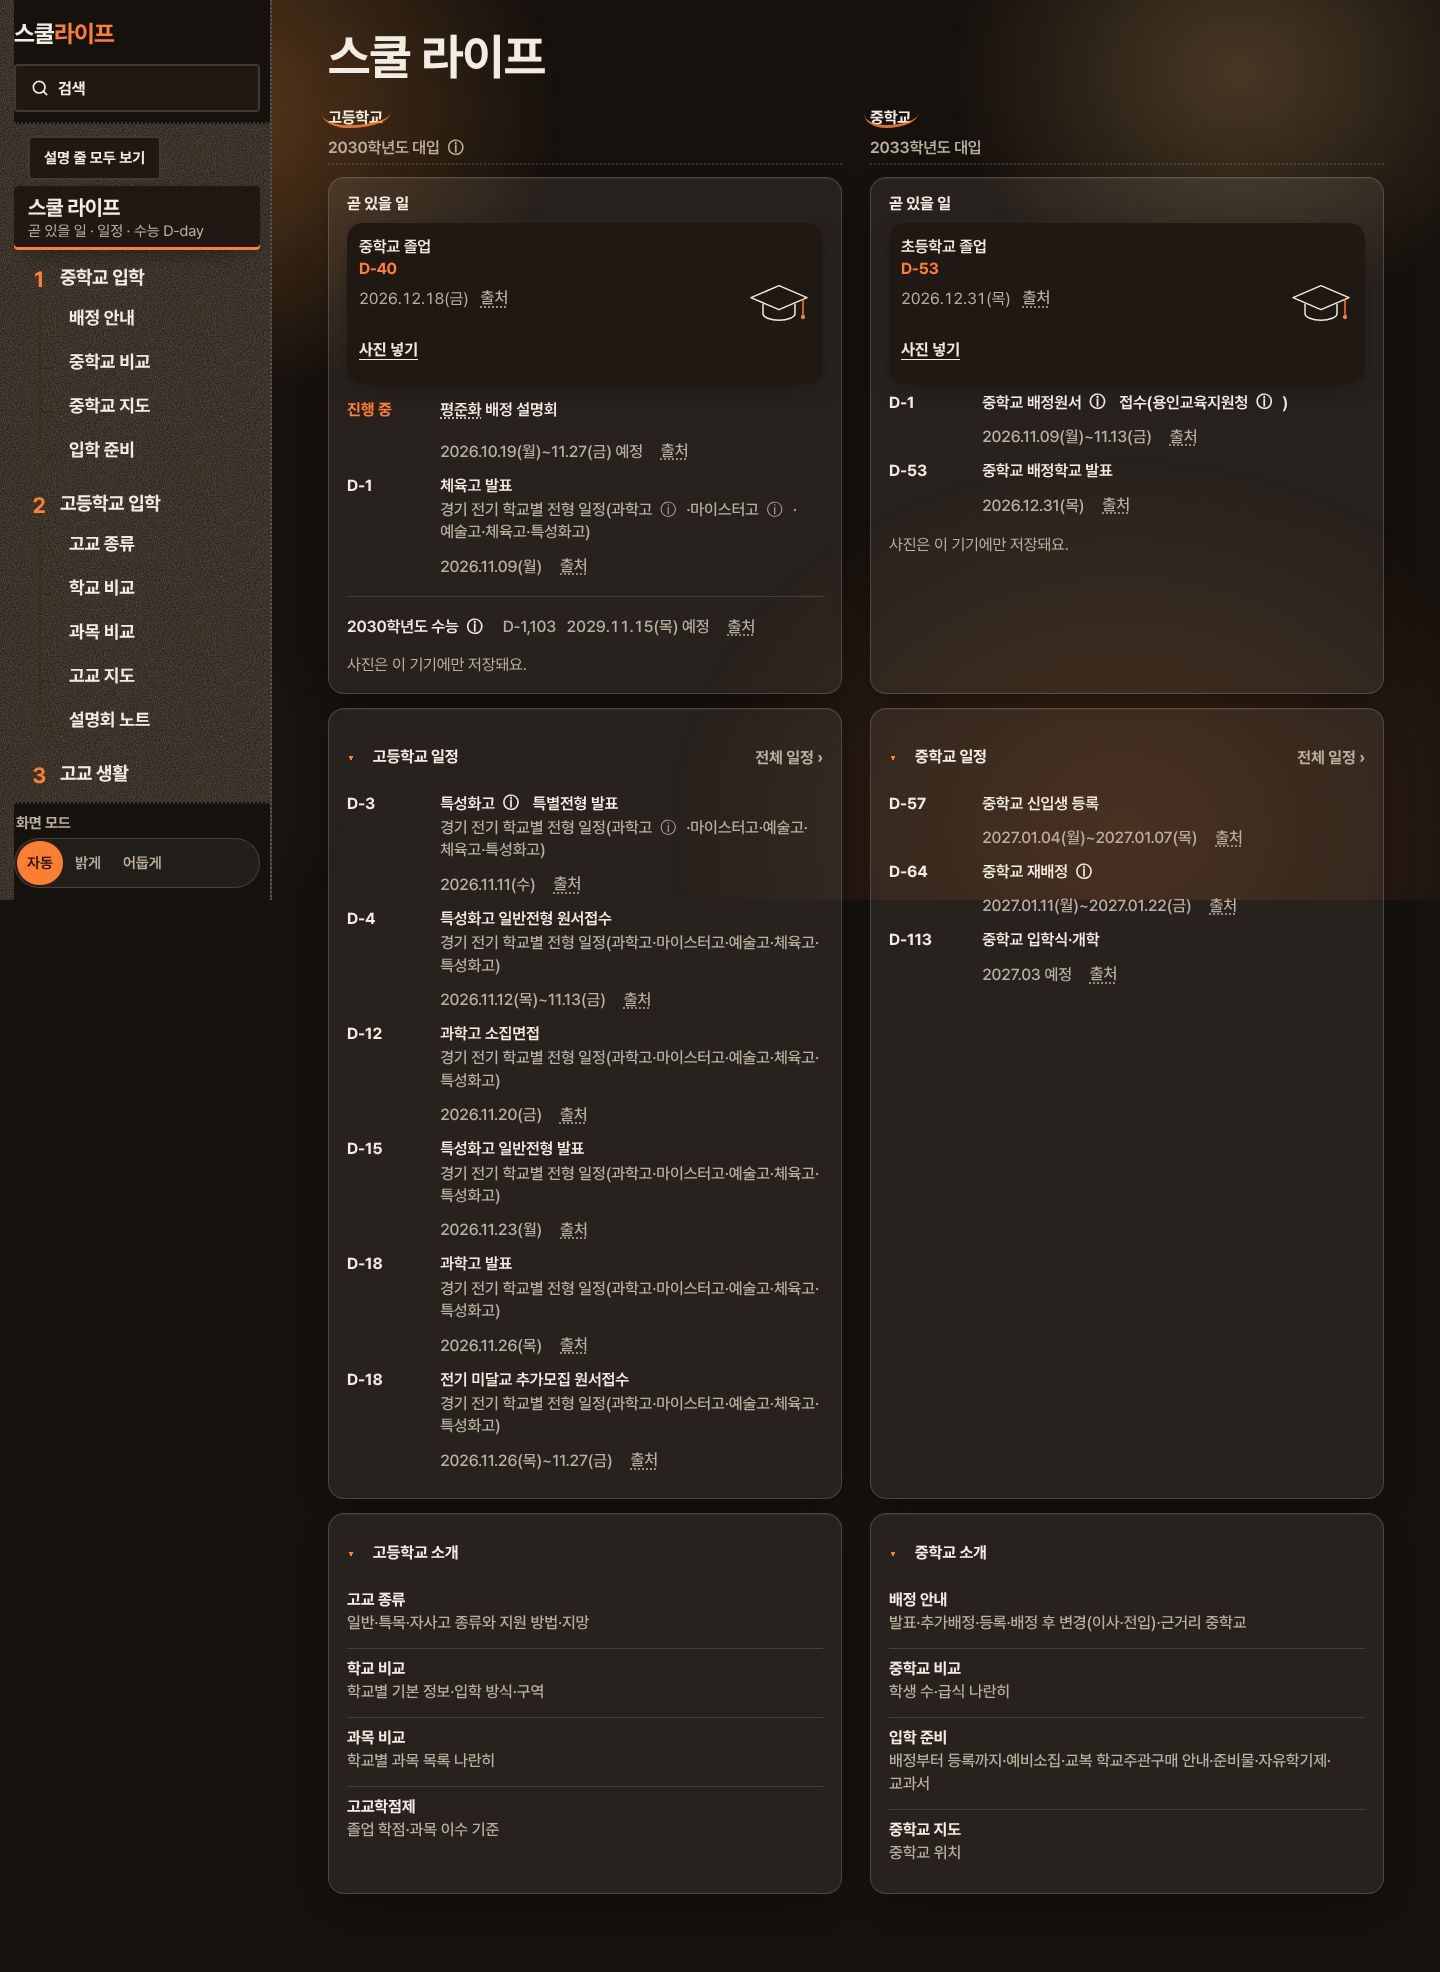
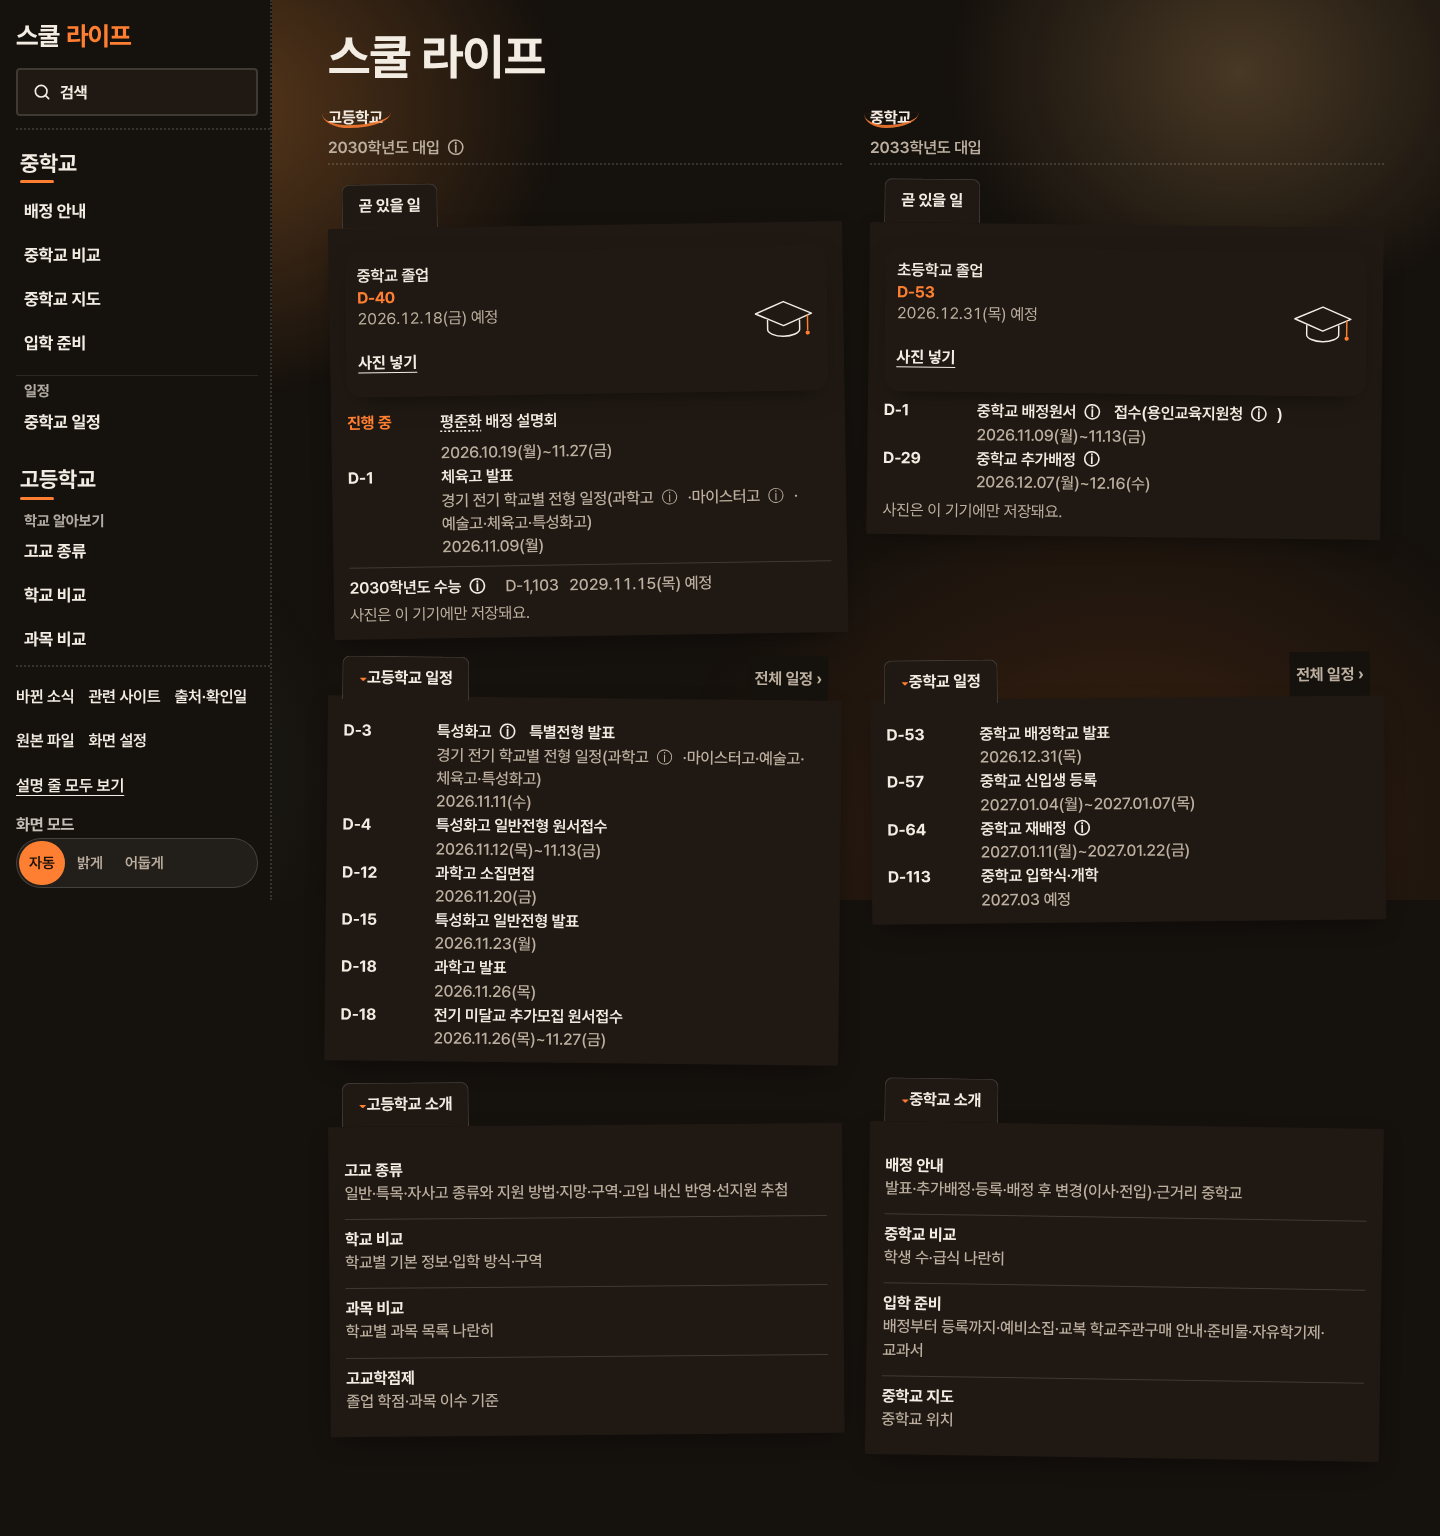
37차 D·E 2차: 홈 스크랩북 카드(각도·바인더 탭)·빈 종이 줄임·부제 한 번, 사이드바 낮은 화면, 서랍 설명 현재 그룹만, 과목 비교 인쇄 폭
Claude-Session: https://claude.ai/code/session_01GSdmVHRs72wJk6Q9aMyjCK

diff --git a/portal/home.js b/portal/home.js
@@ -89,7 +89,8 @@ export function registerHome(views, { esc, load, store, profiles }) {
     const isG3 = (r, e) => (e?.audience || r.audience || []).includes("grade3");
     const related = (r, L) => r.entryYear === L.entryYear || r.examYear === L.examYear || (r.entryYear == null && r.examYear == null);
 
-    const evRow = (x, big) => `<li class="h2-ev${big ? " first" : ""}"><span class="h2-d num${x.sp.start <= t ? " live" : ""}">${dLabel(x.sp, t)}</span><div class="h2-b"><b>${esc(x.label || x.r.title)}</b>${x.label ? `<small>${esc(x.r.title)}</small>` : ""}<span class="num">${esc(x.date)}${x.tent ? " 예정" : ""} ${srcOf(x.r)}</span></div></li>`;
+    let lastSub = ""; const subOnce = (x) => { const show = x.label && x.r.title !== lastSub; lastSub = x.label ? x.r.title : ""; return show; };
+    const evRow = (x, big) => `<li class="h2-ev${big ? " first" : ""}"><span class="h2-d num${x.sp.start <= t ? " live" : ""}">${dLabel(x.sp, t)}</span><div class="h2-b"><b>${esc(x.label || x.r.title)}</b>${subOnce(x) ? `<small>${esc(x.r.title)}</small>` : ""}<span class="num">${esc(x.date)}${x.tent ? " 예정" : ""} ${srcOf(x.r)}</span></div></li>`;
     const stoneCard = (m) => { const n = dayN(m.date, t); return `<li class="ms h2-ms" data-ms="${esc("life:" + m.id)}" data-kind="${m.kind}"><div class="ms-t"><span class="ms-k">${esc(m.label)}</span>
         <b class="ms-n num">${n === 0 ? "오늘" : `D-${n.toLocaleString()}`}</b>
         <span class="ms-s num">${esc(m.dateText)}${m.tent ? " 예정" : ""} ${srcOf(m.r)}</span>
@@ -121,10 +122,10 @@ export function registerHome(views, { esc, load, store, profiles }) {
         <header class="hm2-h"><h2 class="hm2-name">${nm}</h2><p class="hm2-sub">${L.examYear ? `${L.examYear}학년도 대입` : ""}</p></header>
         <section class="dp hm2-b soonp" aria-label="${nm} 곧 있을 일"><div class="sec-h"><h3>곧 있을 일</h3></div>
           ${stone ? `<ul class="mss">${stoneCard(stone)}</ul>` : ""}
-          ${soon.length ? `<ul class="h2-evs">${soon.map((x, i) => evRow(x, !stone && i === 0)).join("")}</ul>` : stone ? "" : `<p class="muted">곧 있을 일정이 아직 없어요.</p>`}
+          ${soon.length ? `<ul class="h2-evs">${(lastSub = "", soon.map((x, i) => evRow(x, !stone && i === 0)).join(""))}</ul>` : stone ? "" : `<p class="muted">곧 있을 일정이 아직 없어요.</p>`}
           ${dd}${stone ? '<p class="hint">사진은 이 기기에만 저장돼요.</p>' : ""}</section>
         <details class="dp hm2-b hm2-sch" open><summary><h3>${C.side} 일정</h3><a class="h2-all" href="${C.all}">전체 일정 ›</a></summary>
-          ${later.length ? `<ul class="h2-evs">${later.map((x) => evRow(x)).join("")}</ul>` : '<p class="muted">앞으로 예정된 일정이 아직 없어요.</p>'}</details>
+          ${later.length ? `<ul class="h2-evs">${(lastSub = "", later.map((x) => evRow(x)).join(""))}</ul>` : '<p class="muted">앞으로 예정된 일정이 아직 없어요.</p>'}</details>
         <details class="dp hm2-b hm2-intro" open><summary><h3>${C.side} 소개</h3></summary><ul class="h2-go">${intro}</ul></details>
       </div>`;
     };

diff --git a/portal/app.js b/portal/app.js
@@ -64,7 +64,7 @@ const MENU_ICON = {
 // 상단 메뉴(데스크톱)·하단 탭(모바일): 5개 탭, 글자만. 켜진 탭은 위쪽 선.
 function drawTabs(loc) {
   const html = treeHtml(loc), hadFocus = !!document.activeElement?.closest?.("#sidenav");
-  for (const f of [$("#ntfoot"), $("#ntfoot2")]) if (f) f.innerHTML = footLinks(loc);
+  if ($("#ntfoot")) $("#ntfoot").innerHTML = footLinks(loc) + '<button type="button" id="nttg" class="nt-tg" aria-pressed="false">설명 줄 모두 보기</button>'; if ($("#ntfoot2")) $("#ntfoot2").innerHTML = footLinks(loc);
   const side = $("#sdtree"), dr = $("#navtree"), sideBox = $("#sidenav"); if (side) { side.innerHTML = `<nav class="nt" aria-label="전체 메뉴">${html}</nav>`; let cp = true; try { cp = localStorage.getItem("portal.navcompact") !== "0"; } catch {} sideBox.classList.toggle("nt-compact", cp); const tg = $("#nttg"); if (tg) { tg.setAttribute("aria-pressed", String(!cp)); tg.onclick = () => { const v = !sideBox.classList.contains("nt-compact"); sideBox.classList.toggle("nt-compact", v); try { localStorage.setItem("portal.navcompact", v ? "1" : "0"); } catch {} tg.setAttribute("aria-pressed", String(!v)); }; } }
   if (dr) { dr.innerHTML = `<nav class="nt" aria-label="전체 메뉴">${treeHtml(loc, true)}</nav>`; dr.onclick = (e) => { const g = e.target.closest(".nt-gt"); if (!g) return; const on = g.getAttribute("aria-expanded") !== "true"; g.setAttribute("aria-expanded", String(on)); g.closest(".nt-g").classList.toggle("open", on); }; }
   const bt = $("#btabs"); if (bt) bt.innerHTML = BOTTOM.map((b) => b.href ? `<a href="${b.href}"${loc && (loc.item.id === b.r || loc.item.id.split("?")[0] === b.r) ? ' aria-current="page"' : ""}>${esc(b.label)}</a>` : `<button type="button" data-b="${b.key}"${b.key === "menu" ? ' id="menubtn" aria-expanded="false" aria-controls="navdrawer"' : ""}>${esc(b.label)}</button>`).join("");
@@ -579,7 +579,7 @@ function addToc() {
   const mo = new MutationObserver(() => { if (!q) q = requestAnimationFrame(all); }); const m0 = document.getElementById("main"); if (m0) mo.observe(m0, { childList: true, subtree: true }); }
 // 정보 화면: 웹폰트(Pretendard)가 늦게 들어오며 17px 글이 다시 줄바꿈되는 것(CLS)을 막는다 — 글자 모양이 준비될 때까지(최대 0.9초) 본문을 보이지 않게 둔다
 function fontGate() {
-  const m = $("#main"); if (!m || !(m.classList.contains("info") || m.dataset.r === "schedule") || !document.fonts?.load) return; // 일정 화면도: 칩·안내 줄이 글꼴 교체로 다시 줄바꿈되며 밀리는 것(CLS)
+  const m = $("#main"); if (!m || !(m.classList.contains("info") || m.dataset.r === "schedule" || m.dataset.r === "home") || !document.fonts?.load) return; // 일정 화면도: 칩·안내 줄이 글꼴 교체로 다시 줄바꿈되며 밀리는 것(CLS)
   m.classList.add("fw"); let done = false;
   const open = () => { if (done) return; done = true; m.classList.remove("fw"); };
   setTimeout(open, 900);

diff --git a/portal/home2.css b/portal/home2.css
@@ -58,3 +58,44 @@ body:has(#main[data-r=home]) .legend{display:none}
 
 #main .hm2 .h2-b .num,#main .hm2 .h2-d{white-space:normal;overflow-wrap:anywhere}
 #main .hm2 .h2-ev{grid-template-columns:5.2em minmax(0,1fr)}
+
+/* 스크랩북(2026-11-08): 카드마다 살짝 다른 각도의 종이 조각 + 바인더 탭 머리글. 읽기 우선이라 각도는 작게, 모바일은 더 작게. 열 높이는 맞추지 않고 내용만큼(빈 종이 줄임) */
+.hm2{align-items:start!important}
+.hm2-b{position:relative;margin-top:22px;padding:18px 16px 12px;background:var(--paper2);border:0;border-radius:2px;box-shadow:var(--sh,0 2px 8px rgba(0,0,0,.12));transform-origin:50% 0}
+.hm2-b>.sec-h,.hm2-b>summary{position:static}
+.hm2-b>.sec-h h3,.hm2-b>summary h3{position:absolute;top:-16px;left:14px;margin:0;padding:3px 14px 2px;background:var(--paper2);border:1px solid var(--line);border-bottom:0;border-radius:8px 8px 0 0;font:700 19px/1.3 var(--hand);color:var(--ink)}
+.hm2-b>summary{min-height:44px;padding-top:2px}
+.hm2-b>summary::before{margin-left:2px}
+.hm2-b>.sec-h{min-height:6px;margin:0}
+.hm2-col[data-col=A] .soonp{transform:rotate(-.9deg)!important}
+.hm2-col[data-col=A] .hm2-sch{transform:rotate(.6deg)!important}
+.hm2-col[data-col=A] .hm2-intro{transform:rotate(-.5deg)!important}
+.hm2-col[data-col=B] .soonp{transform:rotate(.7deg)!important}
+.hm2-col[data-col=B] .hm2-sch{transform:rotate(-.6deg)!important}
+.hm2-col[data-col=B] .hm2-intro{transform:rotate(.9deg)!important}
+@media (max-width:899px){
+  .hm2-col[data-col] .hm2-b{transform:rotate(.25deg)!important}
+  .hm2-col[data-col] .hm2-sch{transform:rotate(-.25deg)!important}
+  .hm2-b>.sec-h h3,.hm2-b>summary h3{font-size:18px}
+}
+@media (prefers-reduced-motion:reduce){.hm2-b{transition:none}}
+
+/* 접이식 카드: 요약 줄 전체가 탭(빈 줄 없음). 열림 표시는 탭 안의 ▸/▾ */
+.hm2-b{min-height:34px}
+.hm2-b>summary{position:absolute;top:-16px;left:0;right:0;display:flex;align-items:center;justify-content:space-between;min-height:0;padding:0 14px;pointer-events:none}
+.hm2-b>summary::before{display:none}
+.hm2-b>summary h3,.hm2-b>summary .h2-all{pointer-events:auto}
+.hm2-b>summary h3{position:static;flex:none;cursor:pointer}
+.hm2-b>summary h3::before{content:"▸ ";color:var(--accent);font:16px var(--font)}
+.hm2-b[open]>summary h3::before{content:"▾ "}
+.hm2-b>summary .h2-all{background:var(--paper);padding:0 6px;margin-top:10px}
+
+.hm2-b[open]{padding-top:28px}
+
+/* 탭 높이 44px(눌러서 여닫는 탭은 터치 44px) */
+.hm2-b{margin-top:48px}
+.hm2-b>.sec-h h3,.hm2-b>summary h3{display:flex;align-items:center;min-height:44px;padding:0 16px;box-sizing:border-box}
+.hm2-b>.sec-h h3{top:-44px}
+.hm2-b>summary{top:-44px;align-items:flex-end}
+.hm2-b>summary .h2-all{align-self:flex-end;margin:0 0 4px}
+.hm2-b[open]{padding-top:22px}

diff --git a/portal/index.html b/portal/index.html
@@ -79,7 +79,7 @@
 <body>
   <a id="skip" class="skip" href="#main">본문으로 건너뛰기</a>
   <nav class="tabs" id="btabs" aria-label="하단 메뉴"></nav>
-  <aside id="sidenav" class="sidenav" aria-label="메뉴"><div class="sd-top"><a class="wm" href="#home" aria-label="스쿨 라이프 홈">스쿨 <i>라이프</i></a><button type="button" id="srbtn" class="srbtn" aria-label="검색" title="검색 (/)"><svg viewBox="0 0 24 24" aria-hidden="true" width="20" height="20" fill="none" stroke="currentColor" stroke-width="2" stroke-linecap="round"><circle cx="11" cy="11" r="7"/><path d="M20 20l-4-4"/></svg><span>검색</span></button></div><div id="sdtree" class="sd-tree"></div><div class="sd-bot"><nav id="ntfoot" class="nt-foot" aria-label="자료와 설정"></nav><button type="button" id="nttg" class="nt-tg" aria-pressed="false">설명 줄 모두 보기</button><p class="nd-th2">화면 모드</p><div id="themesw" class="tsw" role="group" aria-label="화면 모드"></div></div></aside>
+  <aside id="sidenav" class="sidenav" aria-label="메뉴"><div class="sd-top"><a class="wm" href="#home" aria-label="스쿨 라이프 홈">스쿨 <i>라이프</i></a><button type="button" id="srbtn" class="srbtn" aria-label="검색" title="검색 (/)"><svg viewBox="0 0 24 24" aria-hidden="true" width="20" height="20" fill="none" stroke="currentColor" stroke-width="2" stroke-linecap="round"><circle cx="11" cy="11" r="7"/><path d="M20 20l-4-4"/></svg><span>검색</span></button></div><div id="sdtree" class="sd-tree"></div><div class="sd-bot"><nav id="ntfoot" class="nt-foot" aria-label="자료와 설정"></nav><p class="nd-th2">화면 모드</p><div id="themesw" class="tsw" role="group" aria-label="화면 모드"></div></div></aside>
   <main id="main" class="wrap"></main>
   <div id="navdrawer" class="navdrawer" hidden><div class="nd-sheet" role="dialog" aria-modal="true" aria-label="메뉴"><div class="nd-top"><a class="wm" href="#home" aria-label="스쿨 라이프 홈">스쿨 <i>라이프</i></a><button type="button" class="nd-x">닫기 ✕</button></div><button type="button" id="ndsearch" class="srbtn nd-search" aria-label="검색"><svg viewBox="0 0 24 24" aria-hidden="true" width="20" height="20" fill="none" stroke="currentColor" stroke-width="2" stroke-linecap="round"><circle cx="11" cy="11" r="7"/><path d="M20 20l-4-4"/></svg><span>검색</span></button><div id="navtree"></div><nav id="ntfoot2" class="nt-foot" aria-label="자료와 설정"></nav><p class="nd-th"><span>화면 모드</span></p><div id="themesw2" class="tsw" role="group" aria-label="화면 모드"></div></div></div>
   <div class="upd" id="upd" role="status" hidden>새 버전이 있어요. <button type="button" class="lnk" id="upd-go">새로고침</button></div>

diff --git a/portal/sw.js b/portal/sw.js
@@ -1,6 +1,6 @@
 // 서비스 워커: 정적 파일은 네트워크 우선(실패하면 캐시), 데이터 JSON은 캐시를 먼저 보여 주고 뒤에서 갱신(stale-while-revalidate).
 // 범위는 이 파일이 있는 폴더(/admissions-2030/portal/)다. 캐시 이름의 버전을 올리면 옛 캐시를 지운다.
-const VERSION = "2026-11-08-67";
+const VERSION = "2026-11-08-70";
 const STATIC = `static-${VERSION}`, DATA = `data-${VERSION}`;
 const CORE = ["./", "index.html", "style.css", "theme.css", "scrap.css", "dense.css", "glass.css", "nav-tree.css", "home2.css", "fonts/gaegu-700.woff2", "fonts/gowun-batang-700.woff2", "app.js", "menu.js", "nav-tree.js", "home.js", "profile.js", "profile-ui.js", "subject-info.js", "files.js", "policy.js", "credit.js", "school-card.js", "roadmap.js", "search.js", "pagefoot.js", "compare-table.js", "search-extra.js", "univ-match.js", "map.js", "planner.js", "stage.js", "briefing.js", "dash.js", "terms.js", "hs-compare.js", "src-ref.js", "hs-types.js", "glossary.js", "plain.js", "middle.js", "manifest.webmanifest", "icons/icon-192.png", "icons/icon-512.png", "icons/apple-touch-icon.png"];
 

diff --git a/portal/nav-tree.css b/portal/nav-tree.css
@@ -214,3 +214,15 @@ button.term{padding-inline:5px!important;margin-inline:-5px!important}
 .nt-foot a[aria-current=page]{border-bottom-color:var(--accent);font-weight:700}
 .navdrawer .nt-foot{margin:8px 4px 0;padding-top:8px;border-top:1px solid var(--line)}
 .sd-top .wm,.nd-top .wm{text-decoration:none;color:var(--ink)}
+
+/* 낮은 화면(≤800px)에서도 트리가 충분히 보이게: 맨 아래 묶음을 줄인다. 서랍은 현재 그룹만 설명 줄을 보인다 */
+.sd-bot .nt-tg{min-height:44px;margin-left:0}
+@media (max-height:800px){
+  .sd-top{padding:8px 12px 8px 0;gap:6px}.sd-top .wm{font-size:22px;min-height:36px}.srbtn{min-height:44px}
+  .nd-th2{display:none}.sd-bot{padding:4px 12px 8px 0;gap:0}
+}
+.navdrawer .nt .nt-g.open a small{display:none}
+.navdrawer .nt .nt-g.on a small{display:block}
+/* 인쇄: 과목 비교 표도 종이 폭에 맞춘다 */
+@media print{html body table#tbl{min-width:0!important;width:100%!important;font-size:11px}html body table#tbl th,html body table#tbl td{min-width:0!important;width:auto!important;padding:3px 4px;word-break:break-word;overflow-wrap:anywhere}}
+
